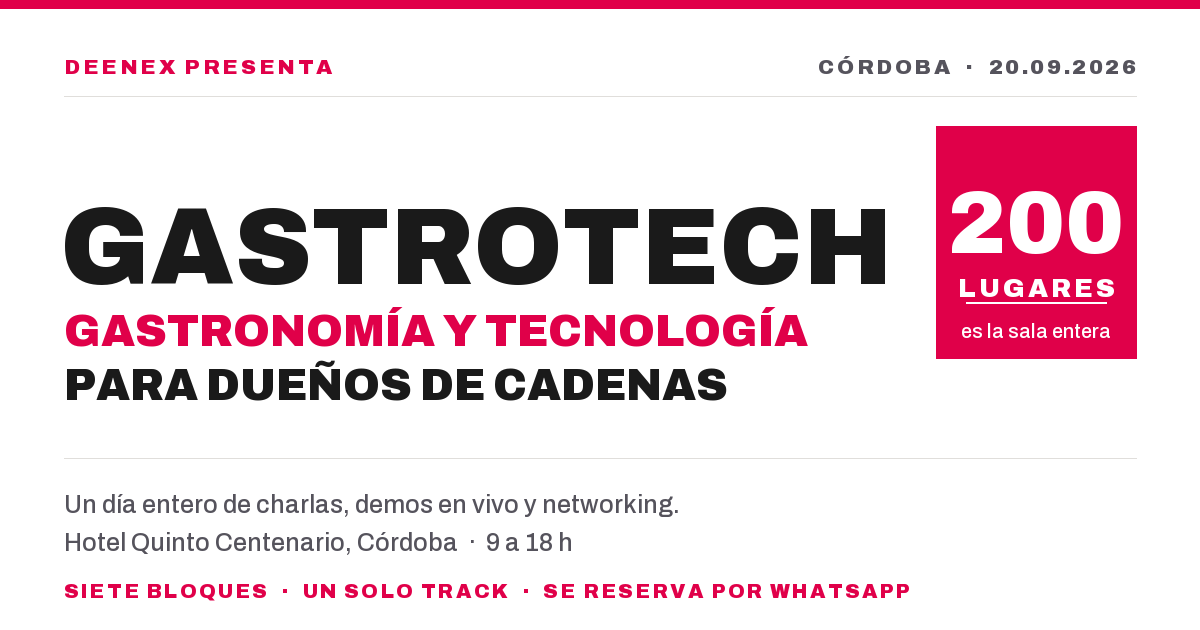
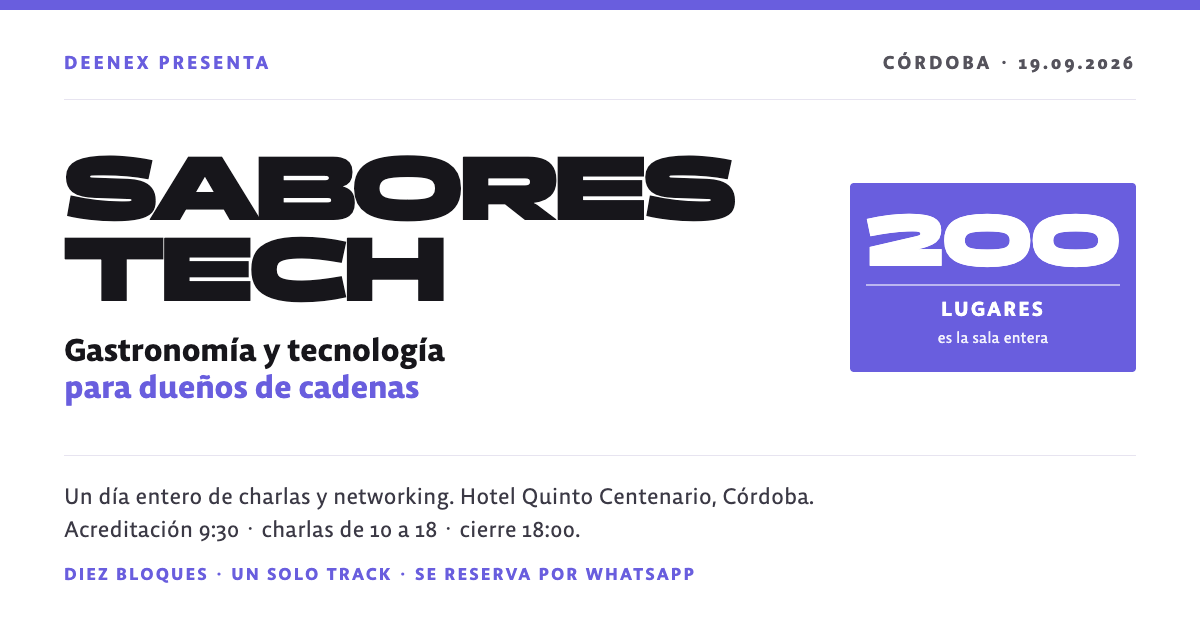
El evento se llama Sabores Tech by Deenex
El nombre sale de `EVENTO.nombre`, así que el hero, el `sr-only`, el navbar y
el `.ics` cambiaron solos. El resto estaba escrito a mano en once lugares —FAQ,
prueba social, ubicación, las dos vistas y los metadatos— y se cambió uno por
uno.

El titular se tuvo que volver a medir. "Sabores Tech" en Panchang 800 mide
11,53 px de ancho por px de cuerpo contra los 10,46 de "GastroTech": un 10%
más. Con la escala vieja se cortaba 15px a 320 y 27px de 1440 para arriba, en
silencio, porque la sección tiene overflow-hidden y no aparece barra de scroll.

De paso apareció que el comentario mentía en el dato clave: decía que el
contenedor topa en 1200 y topa en 1136, que es 1200 menos el padding. Por eso
el techo viejo ya estaba al límite antes de cambiar el nombre. La escala nueva
—clamp(1.4rem, 7.2vw, 6rem)— entra de 320 a 2560 con entre 14 y 110 px de
sobra, medido en el navegador con la fuente cargada, no a ojo.

Las tres piezas gráficas decían otra cosa:

- `og-image.png` es lo que se ve al compartir el link, y era de otro evento:
  GASTROTECH, 20.09.2026, "9 a 18 h", "siete bloques", "demos en vivo" y el
  magenta que se reemplazó por el violeta de Deenex. Regenerada con los datos
  de hoy.
- El favicon y el apple-touch-icon eran una "G" sobre magenta. Ahora son una
  "S" sobre violeta.

Y el `noscript` —lo que ve el buscador y el que entra sin JS— arrastraba entero
el estado anterior: "puertas 8:30", y un link de WhatsApp que decía "Hola Alan"
[…]

diff --git a/index.html b/index.html
@@ -25,7 +25,7 @@
     href="https://fonts.googleapis.com/css2?family=Archivo:wght@400;500;600;700;800;900&display=swap" />
 
   <!-- SEO básico -->
-  <title>GastroTech · Córdoba 19/09/2026</title>
+  <title>Sabores Tech · Córdoba 19/09/2026</title>
   <meta name="description"
     content="Un día de tendencias e innovación para dueños de cadenas gastronómicas. 19/09 en Córdoba. Entrada sin costo, 200 lugares." />
   <meta name="keywords"
@@ -38,20 +38,20 @@
   <!-- Open Graph / Facebook -->
   <meta property="og:type" content="website" />
   <meta property="og:url" content="https://deenexproduct.github.io/evento-gastronomico/" />
-  <meta property="og:title" content="GastroTech · Sábado 19/09, Córdoba · 200 dueños de cadenas" />
+  <meta property="og:title" content="Sabores Tech · Sábado 19/09, Córdoba · 200 dueños de cadenas" />
   <meta property="og:description"
     content="Sábado 19 de septiembre en Córdoba, charlas de 10 a 18. Un día de tendencias e innovación para dueños de cadenas gastronómicas. Entrada sin costo, 200 lugares." />
   <meta property="og:image" content="https://deenexproduct.github.io/evento-gastronomico/og-image.png" />
   <meta property="og:image:width" content="1200" />
   <meta property="og:image:height" content="630" />
   <meta property="og:image:type" content="image/png" />
-  <meta property="og:image:alt" content="GastroTech · Gastronomía y tecnología para dueños de cadenas · Córdoba, 19 de septiembre de 2026 · 200 lugares" />
-  <meta property="og:site_name" content="GastroTech" />
+  <meta property="og:image:alt" content="Sabores Tech · Gastronomía y tecnología para dueños de cadenas · Córdoba, 19 de septiembre de 2026 · 200 lugares" />
+  <meta property="og:site_name" content="Sabores Tech" />
   <meta property="og:locale" content="es_AR" />
 
   <!-- Twitter -->
   <meta name="twitter:card" content="summary_large_image" />
-  <meta name="twitter:title" content="GastroTech · Sábado 19/09, Córdoba · 200 dueños de cadenas" />
+  <meta name="twitter:title" content="Sabores Tech · Sábado 19/09, Córdoba · 200 dueños de cadenas" />
   <meta name="twitter:description"
     content="Sábado 19 de septiembre en Córdoba. Once bloques sobre costos, datos, sistemas y contenido para dueños de cadenas gastronómicas. Entrada sin costo." />
   <meta name="twitter:image" content="https://deenexproduct.github.io/evento-gastronomico/og-image.png" />
@@ -65,7 +65,7 @@
   {
     "@context": "https://schema.org",
     "@type": "BusinessEvent",
-    "name": "GastroTech — Deenex, Córdoba 2026",
+    "name": "Sabores Tech — Deenex, Córdoba 2026",
     "startDate": "2026-09-19T09:30:00-03:00",
     "endDate": "2026-09-19T18:00:00-03:00",
     "eventAttendanceMode": "https://schema.org/OfflineEventAttendanceMode",
@@ -137,18 +137,18 @@
       <p style="margin:0;font-size:.78rem;font-weight:700;letter-spacing:.16em;text-transform:uppercase;color:#C7003F">
         Organiza Deenex
       </p>
-      <h1 style="margin:.75rem 0 0;font-size:2.5rem;line-height:1.05;letter-spacing:-.02em">GastroTech</h1>
+      <h1 style="margin:.75rem 0 0;font-size:2.5rem;line-height:1.05;letter-spacing:-.02em">Sabores Tech</h1>
       <p style="margin:.75rem 0 0;font-size:1.05rem;line-height:1.5">
         Un día de gastronomía y tecnología para dueños de cadenas gastronómicas.
       </p>
       <p style="margin:1.5rem 0 0;font-size:1.05rem;line-height:1.6">
         <strong>Sábado 19 de septiembre de 2026</strong><br />
-        Puertas 8:30 · charlas de 10 a 18.<br />
+        Acreditación 9:30 · charlas de 10 a 18 · cierre 18:00.<br />
         Hotel Quinto Centenario, Duarte Quirós 1300, Córdoba.<br />
         Entrada sin costo · 200 lugares.
       </p>
       <p style="margin:2rem 0 0">
-        <a href="https://wa.me/5491133302145?text=GASTROTECH%20%C2%B7%20QUIERO%20IR%0A%0AHola%20Alan!%20Quiero%20mi%20lugar%20para%20el%20domingo%2020%20de%20septiembre%20en%20C%C3%B3rdoba.%0A%0ANombre%3A%0AMarca%3A%0ACu%C3%A1ntos%20locales%20tengo%3A%0AMi%20rol%3A%0AMi%20mail%20(ah%C3%AD%20me%20mandan%20la%20grilla)%3A"
+        <a href="https://wa.me/5491133302145?text=Hola%20Romina%21%20Quiero%20reservar%20mi%20lugar%20para%20el%20evento%20del%2019%20de%20septiembre."
            style="display:inline-block;background:#695EDE;color:#fff;padding:1rem 1.75rem;border-radius:9999px;font-weight:700;text-decoration:none">
           Reservar por WhatsApp
         </a>

diff --git a/src/components/sections/HeroSection.vue b/src/components/sections/HeroSection.vue
@@ -52,15 +52,28 @@
             todo el ancho disponible, que es el máximo peso visual que puede
             tener sin romper nada.
 
-            El tamaño está MEDIDO, no elegido: "GastroTech" en Panchang 800 con
-            este tracking mide 10,46 px de ancho por cada px de cuerpo. Contra
-            el ancho útil del contenedor —viewport menos 40px de padding en
-            teléfono, 64 de ahí para arriba, con tope de 1200— el máximo que
-            entra va de 8,5vw a 8,7vw según el ancho. 8,2vw deja margen en toda
-            la escala. El piso baja a 1,8rem para que en 375px mande el vw y no
-            el piso: con 2rem quedaba clavado en 335 de 335, sin un píxel de
-            sobra; el techo de 6,6rem es el que corresponde al contenedor
-            ya topado en 1200px.
+            El tamaño está MEDIDO, no elegido: "Sabores Tech" en Panchang 800
+            con este tracking mide 11,53 px de ancho por cada px de cuerpo.
+            Medido en el navegador con Range.getBoundingClientRect() y la
+            fuente ya cargada, no a ojo.
+
+            El ancho ÚTIL del contenedor no es 1200: es 1200 menos 64 de
+            padding, o sea 1136, y ahí topa. El comentario anterior decía 1200
+            y por eso el techo quedaba 27px pasado sin que se viera.
+
+            Contra ese útil —viewport menos 40px de padding en teléfono, 64 de
+            ahí para arriba, tope 1136— el máximo que entra va de 7,59vw a
+            320px hasta 8,13vw a 1024. 7,2vw deja margen en toda la escala.
+
+            El techo es 6rem: 96px × 11,53 = 1107 contra 1136 útiles. Con
+            6,3rem el texto medía 1163 y se cortaba de 1440 para arriba. El
+            piso es 1,4rem, que sólo gobierna por debajo de 311px; con 1,6 el
+            texto medía 295 contra 280 útiles en un teléfono de 320.
+
+            Ojo si se cambia el NOMBRE, la tipografía o el tracking: ese 11,53
+            se mueve y el titular se corta sin avisar, porque la sección tiene
+            overflow-hidden y no aparece barra de scroll. Pasó al renombrar
+            —"GastroTech" medía 10,46 y el nombre nuevo es 10% más ancho.
 
             Ojo si se cambia la tipografía o el tracking: ese 10,46 se mueve y
             el titular se corta sin avisar, porque la sección tiene
@@ -71,7 +84,7 @@
             siguiente que proteger.
           -->
           <h1
-            class="display mt-4 text-[clamp(1.8rem,8.2vw,6.6rem)] leading-[0.88] tracking-[-0.035em]"
+            class="display mt-4 text-[clamp(1.4rem,7.2vw,6rem)] leading-[0.88] tracking-[-0.035em]"
           >
             <!--
               El nombre real, para el buscador y para un lector de pantalla:
@@ -210,7 +223,7 @@ function ir(id) {
 }
 
 /*
-  GastroTech se disuelve en humo violeta y aparece "by Deenex".
+  Sabores Tech se disuelve en humo violeta y aparece "by Deenex".
 
   La primera versión revolvía las letras. Era vistoso y era el gesto
   equivocado: un titular que se desarma dice inestabilidad, y este titular es
@@ -219,14 +232,14 @@ function ir(id) {
   siente, no se sufre.
 
   Lo que lo mantiene honesto:
-  · el <h1> conserva "GastroTech" como texto real en un sr-only. Lo animado
+  · el <h1> conserva "Sabores Tech" como texto real en un sr-only. Lo animado
     es aria-hidden, así que ni el buscador ni un lector de pantalla ven el
     titular cambiado.
   · las dos capas están apiladas, así que el ancho del titular nunca cambia y
     nada de lo que está debajo se mueve.
   · la palabra está quieta el 90% del tiempo. Un titular en movimiento
     permanente no se lee.
-  · con prefers-reduced-motion no arranca y queda GastroTech fijo.
+  · con prefers-reduced-motion no arranca y queda Sabores Tech fijo.
 */
 const QUIETO = 4600; // lo que dura cada palabra legible
 const ANTICIPO = 380; // el humo entra ANTES del cambio y lo cubre

diff --git a/src/data/evento.js b/src/data/evento.js
@@ -10,11 +10,11 @@
 // ─────────────────────────────────────────────────────────────────────────────
 
 export const EVENTO = {
-  nombre: "GastroTech",
+  nombre: "Sabores Tech",
   organiza: "Deenex",
   // SÁBADO 19, no domingo 20. Lo cambió la reunión con Gastón Santana del
   // 31/08: el fin de semana se parte en dos —sábado gastronomía, domingo
-  // emprendedores— y GastroTech es el sábado. Todo el material anterior decía
+  // emprendedores— y Sabores Tech es el sábado. Todo el material anterior decía
   // domingo, así que si algo quedó con la fecha vieja, está mal.
   fechaISO: "2026-09-19T09:30:00-03:00",
   fechaLarga: "Sábado 19 de septiembre de 2026",
@@ -84,7 +84,7 @@ export const BLOQUES = [
   {
     ruta: "/que-es",
     label: "Qué es",
-    titulo: "Qué es GastroTech",
+    titulo: "Qué es Sabores Tech",
     resumen: "Para quién es, qué pasa ese día y qué no es.",
   },
   {
@@ -541,11 +541,11 @@ export const FAQ = [
   },
   {
     q: "¿Y el domingo qué pasa?",
-    a: "El fin de semana tiene dos jornadas y GastroTech es la del sábado, que es la de gastronomía. El domingo, en el mismo edificio, hay una jornada para emprendedores: si querés ir a las dos, se reserva por el mismo WhatsApp. El programa del domingo se anuncia con la grilla final.",
+    a: "El fin de semana tiene dos jornadas y Sabores Tech es la del sábado, que es la de gastronomía. El domingo, en el mismo edificio, hay una jornada para emprendedores: si querés ir a las dos, se reserva por el mismo WhatsApp. El programa del domingo se anuncia con la grilla final.",
   },
   {
     q: "¿Dónde es exactamente?",
-    a: `En un salón propio del ${EVENTO.venue}, ${EVENTO.direccion}, Córdoba. Puertas ${EVENTO.puertas}, charlas de ${EVENTO.horarioCharlas}. Se entra por lista: adentro estamos los 200 y nadie más. Ese mismo día el centro de convenciones aloja ${EVENTO.eventoMadre}, y tu acreditación de GastroTech también te habilita ese evento: son unas ${EVENTO.eventoMadreCirculacion} personas circulando por el edificio durante el día. La sala de GastroTech es aparte.`,
+    a: `En un salón propio del ${EVENTO.venue}, ${EVENTO.direccion}, Córdoba. Puertas ${EVENTO.puertas}, charlas de ${EVENTO.horarioCharlas}. Se entra por lista: adentro estamos los 200 y nadie más. Ese mismo día el centro de convenciones aloja ${EVENTO.eventoMadre}, y tu acreditación de Sabores Tech también te habilita ese evento: son unas ${EVENTO.eventoMadreCirculacion} personas circulando por el edificio durante el día. La sala de Sabores Tech es aparte.`,
   },
 ];
 

diff --git a/src/components/sections/PruebaSection.vue b/src/components/sections/PruebaSection.vue
@@ -14,14 +14,14 @@
       </h2>
       </template>
       <p class="lectura mt-5 text-[17px] text-gris">
-        GastroTech lo organiza <strong class="font-bold">Deenex</strong>, la plataforma
+        Sabores Tech lo organiza <strong class="font-bold">Deenex</strong>, la plataforma
         omnicanal donde las marcas de acá abajo manejan todos los días sus canales de venta. Más de
         350 marcas de foodservice y gastronomía la usan para lo mismo: tener en un solo lugar lo
         que pasa en todos sus locales, en vez de armar el número a mano sucursal por sucursal.
       </p>
       <p class="lectura mt-4 text-[17px] text-gris">
         En tres años trabajando con dueños de cadenas apareció siempre la misma escena: decisiones
-        grandes tomadas con información que nadie mira, y nadie con quién contrastarlas. GastroTech
+        grandes tomadas con información que nadie mira, y nadie con quién contrastarlas. Sabores Tech
         es la respuesta a eso, y por eso no se cobra la entrada: el valor está en quién se sienta
         en la sala.
       </p>

diff --git a/src/composables/useCalendario.js b/src/composables/useCalendario.js
@@ -100,10 +100,14 @@ export function useCalendario() {
     [
       "BEGIN:VCALENDAR",
       "VERSION:2.0",
-      "PRODID:-//Deenex//GastroTech//ES",
+      "PRODID:-//Deenex//Sabores Tech//ES",
       "CALSCALE:GREGORIAN",
       "METHOD:PUBLISH",
       "BEGIN:VEVENT",
+      // El UID NO se renombra con el evento, a proposito: es la identidad del
+      // evento para el calendario. Si cambia, el que ya se bajo el .ics no ve
+      // una actualizacion — le aparece un segundo evento al lado del viejo.
+      // "gastrotech" aca no lo ve nadie; un duplicado en la agenda, si.
       `UID:gastrotech-${EVENTO.fechaISO.slice(0, 10)}@deenex.tech`,
       // Momento en que se generó el archivo, no la fecha del evento.
       `DTSTAMP:${aFormatoUTC(new Date())}`,
@@ -141,5 +145,5 @@ export function useCalendario() {
     if (url) URL.revokeObjectURL(url);
   });
 
-  return { google, urlIcs, nombreArchivo: "gastrotech-20-09.ics" };
+  return { google, urlIcs, nombreArchivo: "sabores-tech-19-09.ics" };
 }

diff --git a/src/components/layout/Footer.vue b/src/components/layout/Footer.vue
@@ -2,7 +2,7 @@
   <!--
     El pie cierra con la empresa, no con el evento.
 
-    Antes era una segunda portada: el nombre GastroTech a 5rem, la fecha, el
+    Antes era una segunda portada: el nombre del evento a 5rem, la fecha, el
     cupo y otro botón de reserva. Repetía entera la primera pantalla justo
     después de la sección que ya pide la reserva, y el botón era la quinta
     instancia del mismo CTA. Lo que falta al final del scroll no es volver a
@@ -72,7 +72,7 @@ const whatsappConsulta = linkWa("consulta");
 <style scoped>
 /*
   El wordmark de la empresa, no el del evento: por eso NO usa .display, que es
-  Panchang y está reservada al nombre de GastroTech y al reloj. Acá pesa el
+  Panchang y está reservada al nombre del evento y al reloj. Acá pesa el
   cuerpo, no la display — el pie cierra, no abre.
 */
 .marca-deenex {

diff --git a/tests/unit/ics.test.js b/tests/unit/ics.test.js
@@ -118,6 +118,10 @@ describe("archivo .ics", () => {
     const { ics, google } = await generarIcs();
     const rango = new URL(google).searchParams.get("dates");
     expect(rango).toBe(`${ics.match(/DTSTART:(\S+)/)[1]}/${ics.match(/DTEND:(\S+)/)[1]}`);
-    expect(google).toContain(encodeURIComponent(EVENTO.nombre));
+    // El nombre tiene que llegar al enlace, pero no se compara la CODIFICACION:
+    // URLSearchParams escribe el espacio como "+" y encodeURIComponent como
+    // "%20". Las dos son validas y Google acepta las dos. Comparar bytes daba
+    // verde solo mientras el nombre no tuvo espacios.
+    expect(new URL(google).searchParams.get("text")).toContain(EVENTO.nombre);
   });
 });

diff --git a/src/components/sections/LocationSection.vue b/src/components/sections/LocationSection.vue
@@ -137,7 +137,7 @@ const LOGISTICA = [
     icono: "gente",
     titulo: "Tu acreditación también entra a Córdoba Corazón de Moda",
     texto:
-      "GastroTech pasa en un salón propio, con entrada por lista. La misma acreditación te habilita Córdoba Corazón de Moda, el evento que ocupa el resto del centro de convenciones ese día y por el que circulan unas 20.000 personas.",
+      "Sabores Tech pasa en un salón propio, con entrada por lista. La misma acreditación te habilita Córdoba Corazón de Moda, el evento que ocupa el resto del centro de convenciones ese día y por el que circulan unas 20.000 personas.",
   },
   {
     icono: "reloj",

diff --git a/tests/e2e/registro.spec.js b/tests/e2e/registro.spec.js
@@ -19,7 +19,10 @@ test("el botón de reservar abre WhatsApp con el mensaje escrito", async ({ page
   expect(href).toContain("wa.me/5491154596266");
 
   const texto = decodeURIComponent(href.split("text=")[1]);
-  expect(texto).toContain("GASTROTECH · QUIERO IR");
+  // El noscript manda el MISMO mensaje que el boton real: si se separan, el
+  // que entra sin JS pide otra cosa que el que entra con JS.
+  expect(texto).toContain("Quiero reservar mi lugar");
+  expect(texto).toContain("19 de septiembre");
   expect(texto).toContain("Nombre:");
   expect(texto).toContain("Mi mail");
 });

diff --git a/src/router/index.js b/src/router/index.js
@@ -10,7 +10,7 @@ import HomeView from "@/views/HomeView.vue";
  * interesa y el que no, no lo tiene que scrollear igual.
  *
  * MODO HASH, y eso condiciona todo lo de abajo: el navegador y el router se
- * pelean por el mismo símbolo. "gastrotech.ar/#registro" le llega al router
+ * pelean por el mismo símbolo. "saborestech.ar/#registro" le llega al router
  * como la ruta "/registro". Antes eso lo absorbía una sola comodín que
  * devolvía la home; ahora que hay rutas de verdad, los anclas viejos que ya
  * circulan por WhatsApp, mail y pauta tienen que seguir llegando a algún

diff --git a/tests/unit/calendario.test.js b/tests/unit/calendario.test.js
@@ -10,7 +10,7 @@ import { EVENTO, DOMINGO } from "@/data/evento";
 describe("agendado del evento", () => {
   it("la fecha del evento es el sábado 19 de septiembre de 2026, cuando abren las puertas", () => {
     // Era domingo 20 hasta el 31/08: la reunión con Gastón Santana partió el
-    // fin de semana en dos y GastroTech quedó el sábado.
+    // fin de semana en dos y el evento quedó el sábado.
     const d = new Date(EVENTO.fechaISO);
     expect(d.getUTCFullYear()).toBe(2026);
     expect(d.getUTCMonth()).toBe(8); // septiembre

diff --git a/tests/e2e/ritmo.spec.js b/tests/e2e/ritmo.spec.js
@@ -132,7 +132,7 @@ test("todo botón magenta pleno lleva a reservar", async ({ page }) => {
       const href = el.getAttribute("href") || "";
       const reserva =
         href === "#reservar" ||
-        /GASTROTECH%20%C2%B7%20QUIERO|GASTROTECH · QUIERO/i.test(decodeURI(href)) ||
+        /Quiero reservar mi lugar/i.test(decodeURI(href)) ||
         /reservar|quiero mi lugar|anotarme/i.test(el.innerText);
       if (!reserva) out.push(el.innerText.trim().slice(0, 40) + " → " + href.slice(0, 45));
     }
